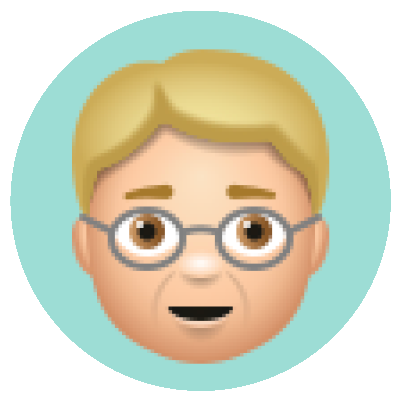
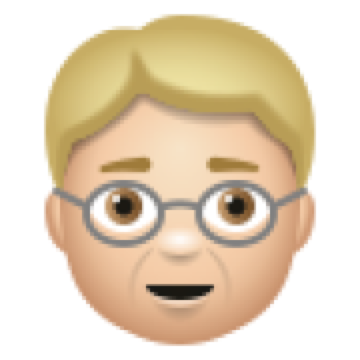
newnew

diff --git a/controllers/PatientController.js b/controllers/PatientController.js
@@ -23,24 +23,26 @@ async function initPatient() {
   try {
     // find all document in Patient Collection to findout if it is empty
 
-    const hash = bcrypt.hash("12345678", 10);
+    const hash = await bcrypt.hash('12345678', 10)
     const result = await Patient.find();
     if (result.length == 0) {
       const newPatient = new Patient({
         firstName: "Pat",
         lastName: "wu",
         userName: "Pat",
-        password: hash,
+        password : hash,
         email: "pat@gmail.com",
         doctor: "Chirs",
         yearOfBirth: "1991",
         supportMes: "You are the best",
+        
       });
-
+      
+      
       // save new patient to database
       const patient = await newPatient.save();
       // console.log("-- id is: ", patient.id);
-
+      
       return patient.id;
     } else {
       // find our target patient Pat
@@ -76,8 +78,12 @@ async function initRecord(patientId) {
 }
 
 const getAllPatients = (req, res) => {
+  
+  
   //res.render('Cliniciandashboard.hbs', {record: Record.lean(), Patient: Patient.lean()}) // send data to browser
-};
+}
+
+
 
 const getOnePatient = (req, res) => {
   const patient = data.find((one) => one.id == req.params.id);
@@ -127,14 +133,14 @@ const updateRecord = async (req, res) => {
   try {
     const patientId = await initPatient();
     const recordId = await initRecord(patientId);
-    const record = await Record.findOne({ _id: recordId });
-    const key = req.body.key;
-    record.data[key].value = req.body.value;
-    record.data[key].comment = req.body.comment;
+    const record = await Record.findOne({ _id: recordId })
+    const key = req.body.key
+    record.data[key].value = req.body.value
+    record.data[key].comment = req.body.comment
     // data.value = req.body.value
     // data.comment = req.body.comment
-    record.data[key].status = "Recorded";
-    record.data[key].createdDate = new Date();
+    record.data[key].status = "Recorded"
+    record.data[key].createdDate = new Date()
     // await data.save();
     // Record.findOneAndUpdate({}, {});
     await record.save();
@@ -147,20 +153,21 @@ const updateRecord = async (req, res) => {
 
 // handle request to get one data instance
 const getDataById = (req, res) => {
-  // search the database by ID
-  const data = Record.find((data) => data.id === req.params.id);
-  // return data if this ID exists
-  if (data) {
-    res.send(data);
-  } else {
-    // You can decide what to do if the data is not found.
-    // Currently, a 404 response is sent.
-    res.sendStatus(404);
-  }
-};
+    // search the database by ID
+    const data = Record.find(data => data.id === req.params.id)
+        // return data if this ID exists
+        if (data) {
+            res.send(data)
+        } else {
+            // You can decide what to do if the data is not found.
+            // Currently, a 404 response is sent.
+            res.sendStatus(404)
+    } 
+}
 
-const getAllRecords = async (req, res) => {
-  try {
+
+const getAllRecords = async(req, res) => {
+  try{
     const patientId = await initPatient();
     const recordId = await initRecord(patientId);
     const record = await Record.findOne({ _id: recordId })
@@ -169,125 +176,42 @@ const getAllRecords = async (req, res) => {
         options: { lean: true },
       })
       .lean();
+    
 
-    res.render("Cliniciandashboard.hbs", { record: record }); // send data to browser
-  } catch (err) {
+  res.render('Cliniciandashboard.hbs', {record: record}); // send data to browser
+  }catch(err){
     console.log("error happens ", err);
+
   }
-};
+}
 
 const renderHomePage = async (req, res) => {
+  
   res.render("PatientHome.hbs");
-};
-
-const renderPatientData = async (req, res) => {
-  const record = {
-    recordDate: "2022-05-14",
-    data: {
-      mock: [
-        {
-          date: "2022-03-11",
-          bgl: "424",
-          doit: "3213",
-          weight: 155,
-          exercise: 42343,
-        },
-        {
-          date: "2022-03-12",
-          bgl: "424",
-          doit: "3213",
-          weight: 124,
-          exercise: 42343,
-        },
-        {
-          date: "2022-03-13",
-          bgl: "424",
-          doit: "3213",
-          weight: 152,
-          exercise: 42343,
-        },
-        {
-          date: "2022-03-14",
-          bgl: "424",
-          doit: "3213",
-          weight: 133,
-          exercise: 42343,
-        },
-        {
-          date: "2022-03-15",
-          bgl: "424",
-          doit: "3213",
-          weight: 166,
-          exercise: 42343,
-        },
-        {
-          date: "2022-03-16",
-          bgl: "424",
-          doit: "3213",
-          weight: 169,
-          exercise: 42343,
-        },
-        {
-          date: "2022-03-17",
-          bgl: "424",
-          doit: "3213",
-          weight: 155,
-          exercise: 42343,
-        },
-      ],
-      bgl: {
-        name: "Blood Glucose Level (nmol/L)",
-        status: "Unrecorded",
-        comment: " 123",
-        minThreshold: 0,
-        maxThreshold: 20,
-      },
-      doit: {
-        name: "Insulin Taken (units)",
-        status: "Unrecorded",
-        comment: "432 ",
-        minThreshold: 0,
-        maxThreshold: 3,
-      },
-      weight: {
-        name: "Weight (kg)",
-        status: "Unrecorded",
-        comment: " 423",
-        minThreshold: 60,
-        maxThreshold: 80,
-      },
-      exercise: {
-        name: "Exercise (steps)",
-        status: "Not required",
-        comment: " 42",
-        minThreshold: 500,
-        maxThreshold: 1000,
-      },
-    },
-  };
-
-  res.render("Patientviewdata.hbs", { record: record });
+  
 };
 
 const renderLoginPage = async (req, res) => {
-  res.render("Patientslogin.hbs", req.session.flash);
-};
-
-<<<<<<< HEAD
-=======
-const renderProfile = async (req, res) => {
   
-const patient = await Patient.findOne({"userName": req.session.userName})
+  res.render("Patientslogin.hbs", req.session.flash);
+  
+};
 
-  var d = new Date(),
-    year = d.getFullYear();
-  const age = year - patient.yearOfBirth
-  res.render("Patientprofile.hbs", {patient: patient, age: age});
- 
+const renderProfile = async (req, res) => {
+
+  const patient = await Patient.findOne({"userName": req.session.userName}).lean()
+  const d = new Date()
+  const year = d.getFullYear()
+  const age = String(year - patient.yearOfBirth)
+  const data = {
+    "age": age
+  }
+  res.render("Patientprofile.hbs", { patient: patient, data: data });
+  
 };
 
 
->>>>>>> a55b302ba430fd5060a887d7af0ad1059666dc04
+
 module.exports = {
   getAllPatients,
   getOnePatient,
@@ -298,9 +222,8 @@ module.exports = {
   getAllRecords,
   renderHomePage,
   renderLoginPage,
-<<<<<<< HEAD
-  renderPatientData,
-=======
   renderProfile
->>>>>>> a55b302ba430fd5060a887d7af0ad1059666dc04
 };
+
+
+

diff --git a/public/css/style.css b/public/css/style.css
@@ -367,3 +367,71 @@ h2 {
     background: rgba(196, 237, 195, 0.5);
     box-shadow: 0px 4px 4px rgb(0 0 0 / 40%);
 }
+
+/* profile css */
+.box {
+    display: flex;
+    width: 100%;
+}
+
+.top_font {
+    font-weight: 700;
+    font-size: 60px;
+    line-height: 70px;
+    padding: 20px;
+}
+
+.box_foot {
+    display: flex;
+}
+
+.img {
+    width: 400px;
+    height: 400px;
+    border-radius: 50%;
+    background-color: rgb(165, 224, 212);
+    position: relative;
+    margin: 30px 150px 0px 150px;
+}
+
+.img img {
+    position: absolute;
+    top: -45px;
+    left: -20px;
+}
+
+.right_ipt {
+    display: flex;
+    align-items: center;
+    margin-top: 40px;
+}
+
+.right_ipt_a {
+    font-weight: 500;
+    font-size: 40px;
+    line-height: 47px;
+    text-align: right;
+    width: 350px;
+    margin-right: 30px;
+}
+
+.right_ipt_b {
+    width: 445px;
+    height: 68px;
+    font-weight: 500;
+    font-size: 40px;
+    line-height: 68px;
+    background: #FFFFFF;
+
+    text-align: center;
+}
+.right_ipt_bb{
+    width: 500px;
+    height: 150px;
+    font-weight: 500;
+    font-size: 40px;
+    line-height: 68px;
+    background: #FFFFFF;
+
+    text-align: center;
+}

diff --git a/routes/patientRouters.js b/routes/patientRouters.js
@@ -1,10 +1,4 @@
-/*
- * @Description: 
- * @Author: wanglinhui
- * @Date: 2022-05-13 20:48:30
- * @LastEditTime: 2022-05-14 14:44:20
- * @LastEditors: wanglinhui
- */
+
 const express = require('express')
 // create our Router object
 const patientRouter = express.Router()
@@ -31,7 +25,6 @@ patientRouter.post('/login',
                     })
 );
 patientRouter.get('/recordData',demoController.renderRecordData)
-patientRouter.get('/patientData',demoController.renderPatientData)
 patientRouter.post("/recordData", demoController.updateRecord);
 patientRouter.get('/profile', sign.isLoginPatient, demoController.renderProfile);
 patientRouter.get('/:id', demoController.getDataById);

diff --git a/routes/clinicianRouter.js b/routes/clinicianRouter.js
@@ -24,10 +24,13 @@ clinicianRouter.post('/login',
                     failureRedirect: "/clinicians/login",
                     failureFlash: true
 }))
+
 clinicianRouter.get('/doctorProfile',sign.isLoginDoctor, clinicianController.initDoctor)
 
 clinicianRouter.get('/createProfile',sign.isLoginDoctor, clinicianController.renderCreateProfile)
 
 clinicianRouter.post('/createProfile',sign.isLoginDoctor, clinicianController.createProfile)
+
+clinicianRouter.get('/profile',sign.isLoginDoctor, clinicianController.renderProfile)
 // export the router
 module.exports = clinicianRouter

diff --git a/controllers/ClinicianController.js b/controllers/ClinicianController.js
@@ -138,7 +138,13 @@ const checkbox = async (req, res) => {
       Record.findOneAndUpdate({name:""},{status:"Not require"})
     }
   }
-  
+};
+
+const renderProfile = async (req, res) => {
+
+  const doctor = await Doctor.findOne({"userName": req.session.userName}).lean()
+
+  res.render("Clinicianprofile.hbs", { doctor: doctor });
   
 };
 
@@ -151,4 +157,5 @@ module.exports = {
     renderCreateProfile,
     createProfile,
     checkbox,
+    renderProfile
 }

diff --git a/app.js b/app.js
@@ -105,4 +105,3 @@ app.listen(process.env.PORT || 3000, () => {
 
 
 
-
